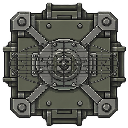
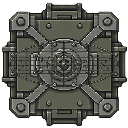
Place radar above blocks with grounded pedestal and full support

diff --git a/HullPlacement.js b/HullPlacement.js
@@ -1,3 +1,4 @@
+import { sensorSupported, sensorMountAt } from './SensorSupport.js';
 import { missileSupported, missileMountAt } from './MissileSupport.js';
 import { planeSupported, planeMountAt } from './PlaneSupport.js';
 import { shipStats, effectiveRotationSpeed } from './ShipStats.js';
@@ -125,14 +126,15 @@ export async function createHullPlacement(app, hull) {
       if (mount) preview.position.set(mount.x, mount.y);
     }
     if (selected.category === 'SENSOR') {
-      const support = placed.find(b => b.partId === '2x2' && contains(polygon(findPart(b.partId), b.x, b.y, b.angle), local));
-      if (support) preview.position.set(support.x, support.y);
+      const mount = sensorMountAt(selected, angle, local, placed);
+      if (mount) preview.position.set(mount.x, mount.y);
     }
     preview.angle = angle;
     const shape = polygon(selected, preview.x, preview.y, angle);
     valid = !placed.some(item => !canOverlap(selected.category, findPart(item.partId).category) && overlaps(shape, polygon(findPart(item.partId), item.x, item.y, item.angle)));
     if (selected.category === 'ENGINE') valid = valid && fullySupported({ partId: selected.id, x: preview.x, y: preview.y, angle }, placed);
-    if (['GUN', 'SENSOR'].includes(selected.category)) valid = valid && gunSupported({ x: preview.x, y: preview.y }, placed);
+    if (selected.category === 'SENSOR') valid = valid && sensorSupported({ x: preview.x, y: preview.y }, placed);
+    if (selected.category === 'GUN') valid = valid && gunSupported({ x: preview.x, y: preview.y }, placed);
     if (['FUEL', 'AMMO', 'GENERATOR', 'CABIN'].includes(selected.category)) valid = valid && fuelSupported({ partId: selected.id, x: preview.x, y: preview.y, angle }, placed);
     if (selected.category === 'PLANE') valid = valid && planeSupported({ partId: selected.id, x: preview.x, y: preview.y, angle }, placed);
     if (selected.category === 'MISSILE') valid = valid && missileSupported({ partId: selected.id, x: preview.x, y: preview.y, angle }, placed);
@@ -185,7 +187,7 @@ export async function createHullPlacement(app, hull) {
       update();
       return;
     }
-    if (!valid) { onAlert(selected.category === 'MISSILE' ? 'MISSILEは指定寸法のHULLに位置・向きを完全一致させてください' : selected.category === 'PLANE' ? 'Yak-21は滑走路の真上1マスに横位置を揃えて配置してください' : ['FUEL', 'AMMO', 'GENERATOR', 'CABIN'].includes(selected.category) ? `${selected.category}は同じ寸法のHULL、または2x2 HULLの半分に完全一致させてください` : ['GUN', 'SENSOR'].includes(selected.category) ? `${selected.category}は2x2 HULLに完全一致させてください（他装備との重なりも不可）` : selected.category === 'ENGINE' ? 'ENGINEは指定寸法のHULLに位置・向きを完全一致させてください（他パーツとの重なりも不可）' : '他のブロックと重なるため配置できません'); return; }
+    if (!valid) { onAlert(selected.category === 'SENSOR' ? 'P-13は台座の下辺全体がブロックの上辺に接する位置へ配置してください' : selected.category === 'MISSILE' ? 'MISSILEは指定寸法のHULLに位置・向きを完全一致させてください' : selected.category === 'PLANE' ? 'Yak-21は滑走路の真上1マスに横位置を揃えて配置してください' : ['FUEL', 'AMMO', 'GENERATOR', 'CABIN'].includes(selected.category) ? `${selected.category}は同じ寸法のHULL、または2x2 HULLの半分に完全一致させてください` : selected.category === 'GUN' ? `${selected.category}は2x2 HULLに完全一致させてください（他装備との重なりも不可）` : selected.category === 'ENGINE' ? 'ENGINEは指定寸法のHULLに位置・向きを完全一致させてください（他パーツとの重なりも不可）' : '他のブロックと重なるため配置できません'); return; }
     const sprite = new Sprite({ texture: textures.get(selected.id) });
     sprite.anchor.set(0.5);
     sprite.width = selected.width * GRID_SIZE;
@@ -219,7 +221,7 @@ export async function createHullPlacement(app, hull) {
     preview, placed, backgroundLayer, armorLayer, engineLayer, fixedEngineLayer, gunLayer, exhaustOverlay, select,
     onAlert(callback) { onAlert = callback; },
     validateSave() {
-      if (placed.some(block => findPart(block.partId).category === 'SENSOR' && !gunSupported(block, placed))) throw new Error('SENSORは2x2 HULLに完全一致させてください');
+      if (placed.some(block => findPart(block.partId).category === 'SENSOR' && !sensorSupported(block, placed))) throw new Error('SENSORの台座をブロックの上辺に接地させてください');
       if (placed.some(block => findPart(block.partId).category === 'MISSILE' && !missileSupported(block, placed))) throw new Error('HULLに取り付けられていないMISSILEがあります。保存できません');
       if (placed.some(block => findPart(block.partId).category === 'PLANE' && !planeSupported(block, placed))) throw new Error('滑走路の真上に配置されていないYak-21があります');
       if (placed.some(block => findPart(block.partId).category === 'CABIN' && !fuelSupported(block, placed))) throw new Error('HULLに取り付けられていないCABINがあります。保存できません');
@@ -279,7 +281,7 @@ export async function createHullPlacement(app, hull) {
       if (blocks.some(block => findPart(block.partId).category === 'CABIN' && !fuelSupported(block, blocks))) throw new Error('保存データのCABINがHULLに完全に取り付けられていません');
       if (blocks.some(block => findPart(block.partId).category === 'PLANE' && !planeSupported(block, blocks))) throw new Error('保存データのYak-21が滑走路の真上にありません');
       if (blocks.some(block => findPart(block.partId).category === 'MISSILE' && !missileSupported(block, blocks))) throw new Error('保存データのMISSILEがHULLに完全に取り付けられていません');
-      if (blocks.some(block => findPart(block.partId).category === 'SENSOR' && !gunSupported(block, blocks))) throw new Error('保存データのSENSORが2x2 HULLに一致していません');
+      if (blocks.some(block => findPart(block.partId).category === 'SENSOR' && !sensorSupported(block, blocks))) throw new Error('保存データのSENSORの台座が接地していません');
       for (const item of placed) item.sprite.destroy({ children: true });
       placed.length = 0;
       for (const block of blocks) {

diff --git a/SensorSupport.js b/SensorSupport.js
@@ -1,0 +1,36 @@
+import { findPart } from './ArmorParts.js';
+import { polygon, contains } from './HullGeometry.js';
+import { GRID_SIZE } from './HullParts.js';
+const epsilon = 0.0001;
+/** 台座の下辺全体が、他ブロックの水平な上辺で支えられること。 */
+export function sensorSupported(sensor, blocks) {
+  const bottom = sensor.y + GRID_SIZE, left = sensor.x - GRID_SIZE, right = sensor.x + GRID_SIZE;
+  const edges = [];
+  for (const block of blocks) {
+    const points = polygon(findPart(block.partId), block.x, block.y, block.angle);
+    if (Math.abs(Math.min(...points.map(p => p.y)) - bottom) > epsilon) continue;
+    points.forEach((p, i) => {
+      const q = points[(i + 1) % points.length];
+      if (Math.abs(p.y - bottom) < epsilon && Math.abs(q.y - bottom) < epsilon) edges.push([Math.min(p.x, q.x), Math.max(p.x, q.x)]);
+    });
+  }
+  edges.sort((a, b) => a[0] - b[0]);
+  let covered = left;
+  for (const [start, end] of edges) {
+    if (start > covered + epsilon) break;
+    covered = Math.max(covered, end);
+    if (covered >= right - epsilon) return true;
+  }
+  return false;
+}
+export function sensorMountAt(part, angle, pointer, blocks) {
+  for (const block of blocks) {
+    const shape = polygon(findPart(block.partId), block.x, block.y, block.angle);
+    const y = Math.min(...shape.map(p => p.y)) - GRID_SIZE;
+    for (const x of [Math.round(pointer.x / GRID_SIZE) * GRID_SIZE, Math.round(block.x / GRID_SIZE) * GRID_SIZE]) {
+      const mount = { partId: part.id, x, y, angle };
+      if (contains(polygon(part, x, y, angle), pointer) && sensorSupported(mount, blocks)) return mount;
+    }
+  }
+  return null;
+}

diff --git a/PlacementRules.js b/PlacementRules.js
@@ -1,7 +1,7 @@
 // 許可されたカテゴリの組み合わせのみ重ね配置できる。
 // HULL/HULL、ARMOR/ARMOR、HULL/ARMOR は現時点では許可しない。
 // 今後合意した組み合わせを ['HULL', 'ENGINE'] のように追加する。
-export const overlapAllowedPairs = [['ENGINE', 'HULL'], ['GUN', 'HULL'], ['FUEL', 'HULL'], ['AMMO', 'HULL'], ['GENERATOR', 'HULL'], ['CABIN', 'HULL'], ['MISSILE', 'HULL'], ['SENSOR', 'HULL']];
+export const overlapAllowedPairs = [['ENGINE', 'HULL'], ['GUN', 'HULL'], ['FUEL', 'HULL'], ['AMMO', 'HULL'], ['GENERATOR', 'HULL'], ['CABIN', 'HULL'], ['MISSILE', 'HULL']];
 
 export function canOverlap(categoryA, categoryB) {
   return overlapAllowedPairs.some(([a, b]) =>

diff --git a/doc/design.md b/doc/design.md
@@ -367,6 +367,8 @@
 - GIFの代わりに固定台座PNGと透過網目アンテナPNGを組み合わせる。Pixiのtickerでアンテナだけ毎秒60度回転し、6秒で一周。速度は暫定の見た目設定。
 - 台座は128×128px、アンテナは112×48pxで回転中も2x2範囲内に収まる。タブの静止アイコンは128×128pxの合成PNG。nearest表示。
 - 半透明プレビュー・配置済み・LOAD後のパーツで回転する。別パーツ選択時はプレビューのアンテナを除去し、destroy時はtickerを解除する。
-- 暫定配置ルールは単一2x2 HULLに完全一致。HULL上に表示、ポインターが支持HULL内なら中心にスナップ。他装備・SENSOR同士の重なりは禁止。支持は配置・SAVE・LOADで検証。
+- P-13は他ブロックの文字通り真上に隣接配置する。重ね配置は禁止。台座下辺128px全体を他ブロックの水平な上辺に接地させる。1個の2マス幅ブロックだけでなく、隙間なく並んだ複数ブロックの上辺も支持として認める。上側の領域では台座下辺を接地位置へスナップし、配置・SAVE・LOADで検証する。
 - Rは台座の設計角度を90度回転、アンテナの自動回転とは独立。持ち直し、DEL、SAVE/LOADに対応。保存はパーツID・位置・設計角度のみで回転位相は保存しない。
 - 仮MASS4、人口消費40。索敵、レーダー誘導との連携、電力消費は未決定・未実装。アンテナ回転は表示アニメーションで、人口不足で停止しない。
+
+- 旧仕様でHULLに重ねたP-13は新ルールでLOADを拒否し、元の保存データは保持する。

diff --git a/README.md b/README.md
@@ -80,4 +80,4 @@ MISSILEタブのR-14 Yuliya（1x2）はHULL 1x2に完全一致、またはHULL 2
 
 MISSILEにKH-121 tulipan（縦4×横2、2x2 HULL 2個に完全一致）とR-2 oduvanchiki（1x1、矩形HULL内の1マス）を追加。GENERATORの下にSENSORタブを用意しました。
 
-SENSORタブのP-13は2x2 HULLに取り付けます。128×128pxの台座上で楕円の網目アンテナが回転します。GIFではなくPixiスプライトでアニメーションします。索敵は未実装です。
+SENSORタブのP-13はブロックの真上に隣接配置し、台座の下辺全体を接地させます。重ね配置は不可です。128×128pxの台座上で楕円の網目アンテナが回転します。GIFではなくPixiスプライトでアニメーションします。索敵は未実装です。
